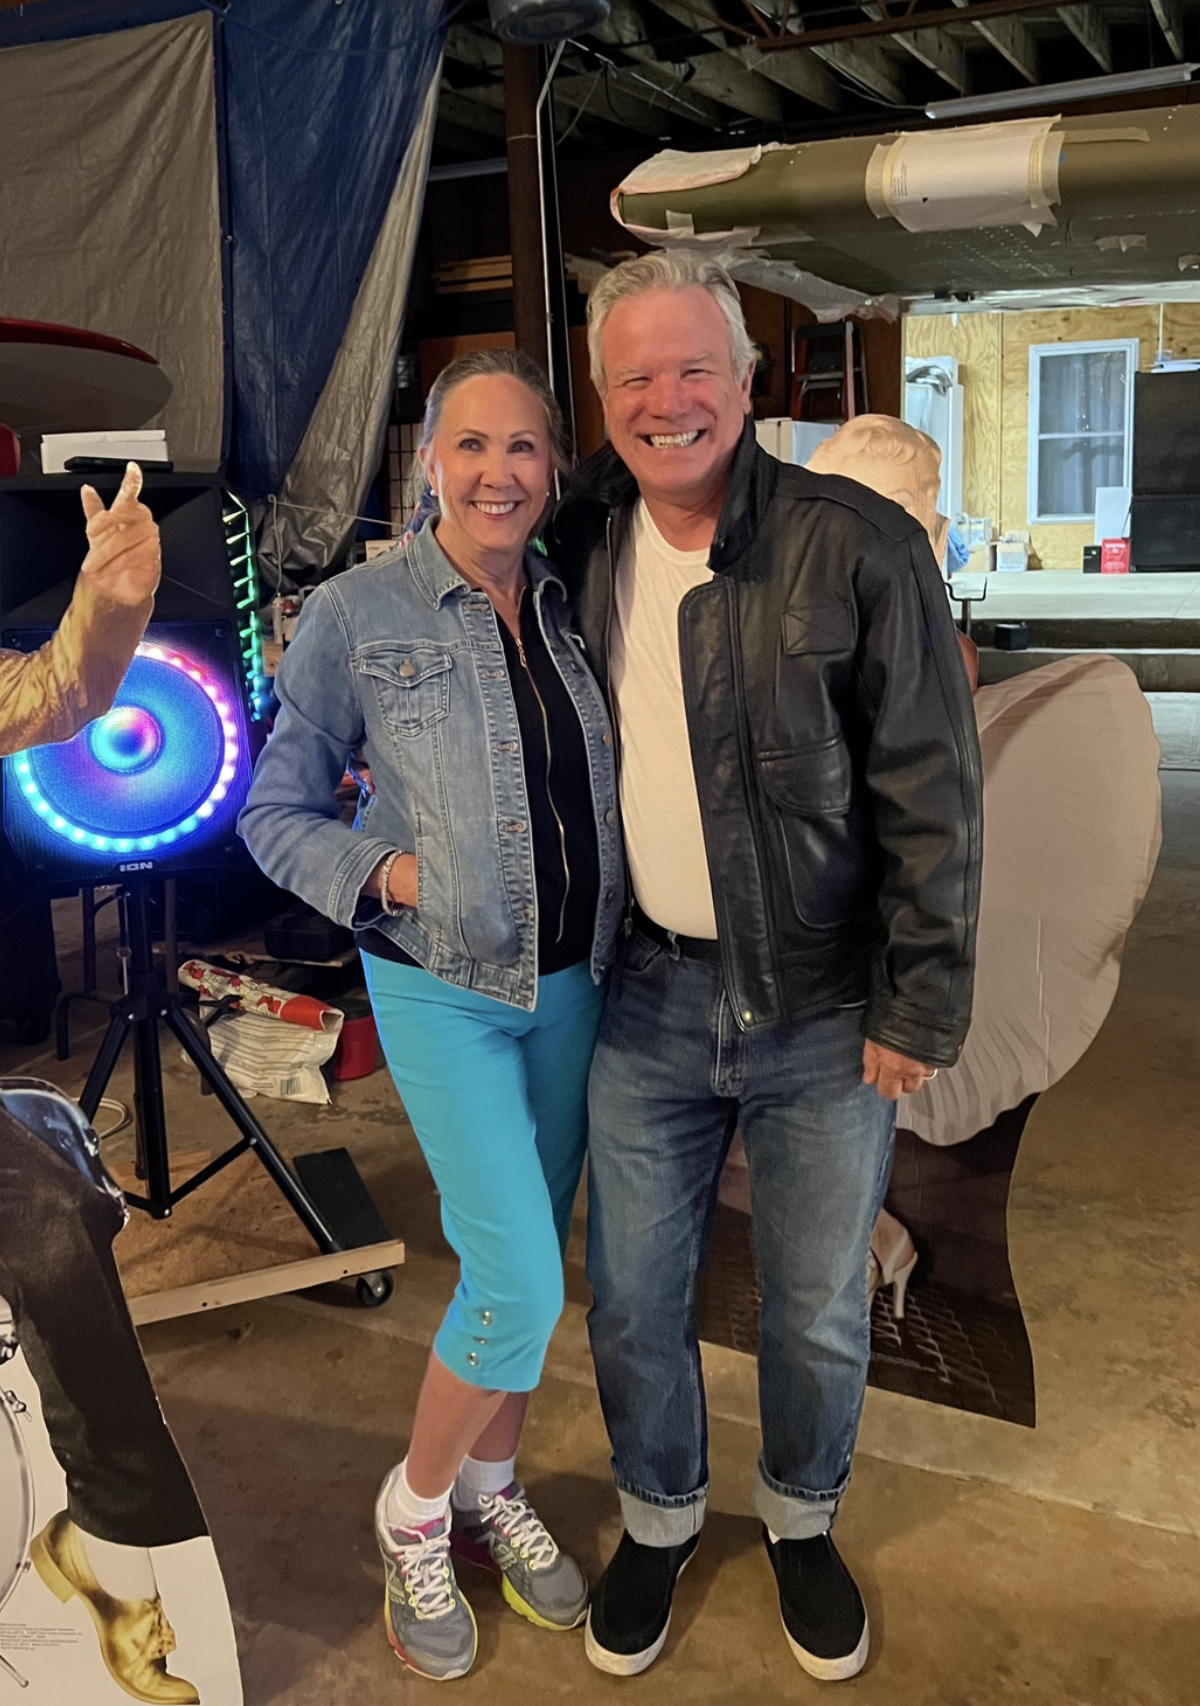
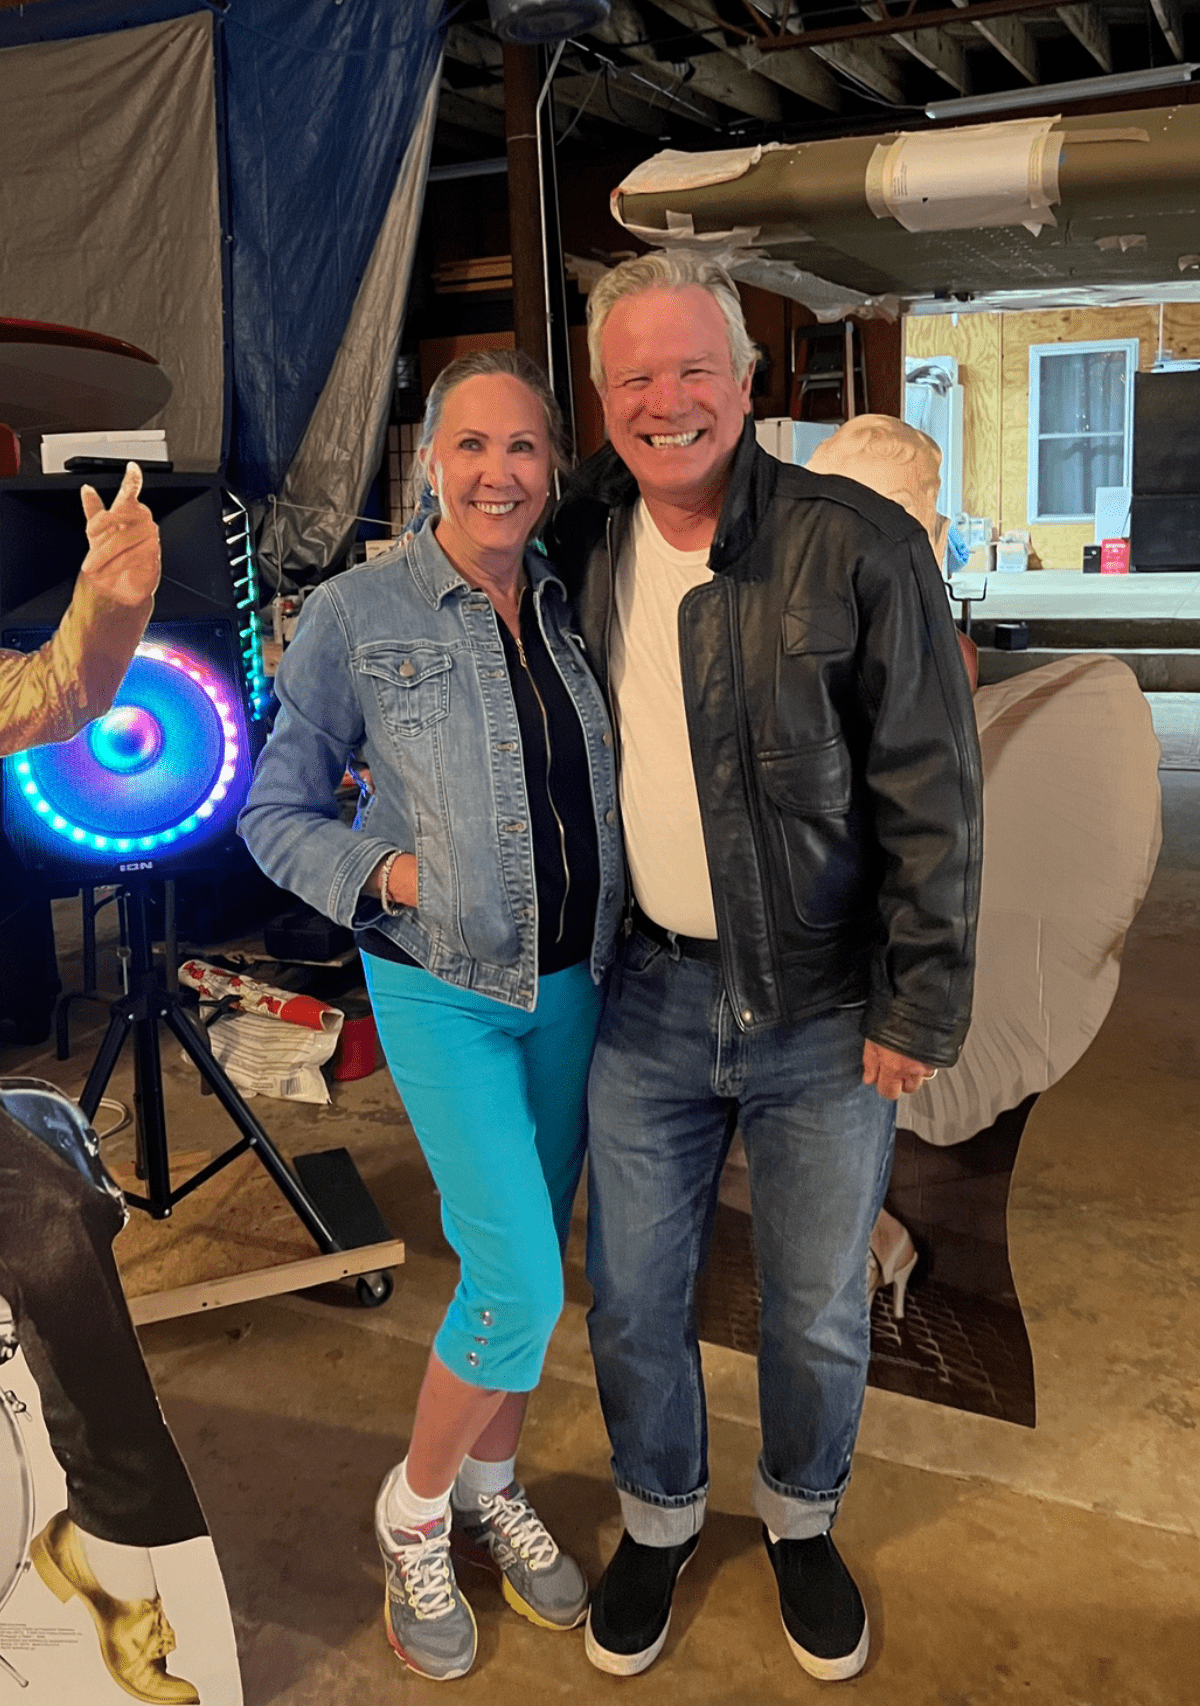
Updated stories. Reduced file size on images.

diff --git a/index.html b/index.html
@@ -170,17 +170,20 @@
                 <div class="col-sm-5 ">
                     <div class="couple-story text-right">
                         <h2 class="heavy mb-10">Our First Date<br/><span>Atlanta, GA<br/>Dec 10, 2020</span></h2>
-                        <p>Lorem ipsum dolor sit amet, consectetur adipiscing elit. Integer ultrices malesuada ante quis
-                            pharetra. Nullam notn bibendum dolor. Ut vel turpis accumsan, efficitur dolor fermentum,
-                            tincidunt metus. Etiam ut ultrices nibh. Etiam aliquam mauris non hendrerit faucibus</p>
+                        <p>Matching on Hinge was the easy bit. Picking out the right outfit for our first date at
+                            Cypress Pint & Plate in Midtown Atlanta was a little more challenging. I ended up going with
+                            jeans and a buttondown. Classic. She ordered wings and fries. I ordered pizza eggrolls. It
+                            was love at first bite!<br/>-Noah</p>
                     </div>
                 </div>
                 <div class="col-sm-5 col-sm-offset-2">
                     <div class="couple-story">
                         <h2 class="heavy mb-10">Our First Trip<br/><span>Cancun, MX<br/>April 13, 2021</span></h2>
-                        <p>Lorem ipsum dolor sit amet, consectetur adipiscing elit. Integer ultrices malesuada ante quis
-                            pharetra. Nullam notn bibendum dolor. Ut vel turpis accumsan, efficitur dolor fermentum,
-                            tincidunt metus. Etiam ut ultrices nibh. Etiam aliqua`m mauris non hendrerit faucibus</p>
+                        <p>You learn a lot about someone when you travel together. When Noah and I decided to go on our
+                            first trip with his family, I knew it’d be make or break. His efficiency through airport
+                            parking/security/boarding and love of Sky Clubs definitely caught my attention but when we
+                            got back to Atlanta and I wasn’t ready to rush to my house, I knew this was something
+                            special.<br/>-Ashley</p>
                     </div>
                 </div>
             </div>
@@ -198,18 +201,22 @@
                     <div class="couple-story text-right">
                         <h2 class="heavy mb-10">Our First Family Reunion<br/><span>Berea, KY<br/>July 6, 2021</span>
                         </h2>
-                        <p>Lorem ipsum dolor sit amet, consectetur adipiscing elit. Integer ultrices malesuada ante quis
-                            pharetra. Nullam notn bibendum dolor. Ut vel turpis accumsan, efficitur dolor fermentum,
-                            tincidunt metus. Etiam ut ultrices nibh. Etiam aliquam mauris non hendrerit faucibus</p>
+                        <p>Meeting all of what seemed to be like 96 of Ashley's extended family over a 5-day annual
+                            reunion in Kentucky seemed like a good idea when I agreed to it months
+                            before. I started out strong, but I admit by day 3 I was fading... fast. Thankfully, I get a
+                            chance
+                            to redeem myself this July in... (checks notes) Missouri? Well, alright then. Wish me
+                            luck!<br/>-Noah</p>
                     </div>
                 </div>
                 <div class="col-sm-5 col-sm-offset-2">
                     <div class="couple-story">
                         <h2 class="heavy mb-10">Our (second) First Date<br/><span>Memphis, TN<br/>May 31, 2022</span>
                         </h2>
-                        <p>Lorem ipsum dolor sit amet, consectetur adipiscing elit. Integer ultrices malesuada ante quis
-                            pharetra. Nullam notn bibendum dolor. Ut vel turpis accumsan, efficitur dolor fermentum,
-                            tincidunt metus. Etiam ut ultrices nibh. Etiam aliquam mauris non hendrerit faucibus</p>
+                        <p>Noah and I were on a break when my mom passed away unexpectedly in May 2022. He was the first
+                            person I wanted to call and the person I needed by my side. We had our (second) first date
+                            eating pizza at a Costco in Memphis. It was full of a lot of tears (and a lot of pizza
+                            grease) and also a lot of the hugs I missed so much!<br/>-Ashley</p>
                     </div>
                 </div>
             </div>
@@ -227,18 +234,21 @@
                 <div class="col-sm-5 ">
                     <div class="couple-story text-right">
                         <h2 class="heavy mb-10">The Proposal<br/><span>Atlanta, GA<br/>February 14, 2023</span></h2>
-                        <p>Lorem ipsum dolor sit amet, consectetur adipiscing elit. Integer ultrices malesuada ante quis
-                            pharetra. Nullam notn bibendum dolor. Ut vel turpis accumsan, efficitur dolor fermentum,
-                            tincidunt metus. Etiam ut ultrices nibh. Etiam aliquam mauris non hendrerit faucibus</p>
+                        <p>My friends told me proposing on Valentine's Day would be too cliché, but I didn't
+                            see anyone else proposing that night at Rumi's Kitchen. So... We had a small table in the
+                            corner
+                            (not near the restroom OR the kitchen) and chatted all night over delicious Persian
+                            cuisine. Just before dessert I looked her in the eye and popped the question, ring in hand.
+                            And the rest is, as they say... history!<br/>-Noah </p>
                     </div>
                 </div>
                 <div class="col-sm-5 col-sm-offset-2">
                     <div class="couple-story">
                         <h2 class="heavy mb-10">Our (second) Family
                             Reunion<br/><span>Branson, MO<br/>July 5, 2023</span></h2>
-                        <p>Lorem ipsum dolor sit amet, consectetur adipiscing elit. Integer ultrices malesuada ante quis
-                            pharetra. Nullam notn bibendum dolor. Ut vel turpis accumsan, efficitur dolor fermentum,
-                            tincidunt metus. Etiam ut ultrices nibh. Etiam aliquam mauris non hendrerit faucibus</p>
+                        <p>Okay so this technically hasn’t happened (check back for updates!), but THIS IS A BIG DEAL
+                            Y’ALL. The Perry’s don’t play and there are like 100 of us. With BIG personalities. Will
+                            Noah survive?!? I think (hope!!) so. Pray for us! 🙏🏼<br/>-Ashley</p>
                     </div>
                 </div>
             </div>
